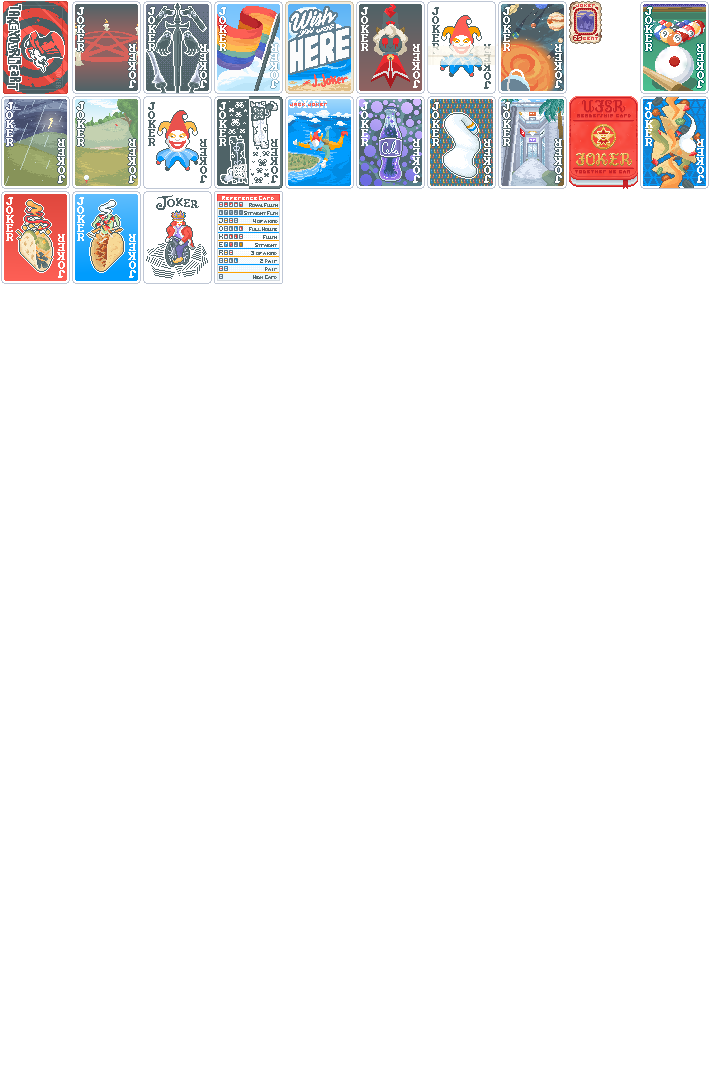
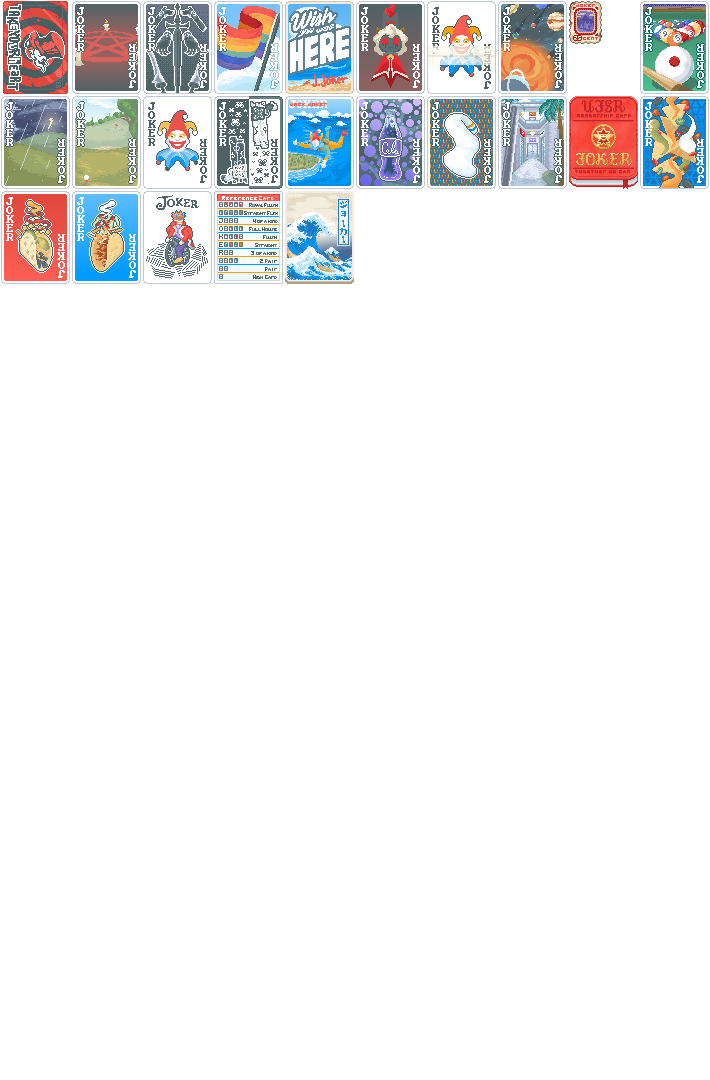
Implement Great Wave

Changed region(s): [[0.4028, 0.1528, 0.4958, 0.275]]

diff --git a/docs/addjokers.js b/docs/addjokers.js
@@ -176,6 +176,14 @@ let implementedJokers = [
     ],
     image_url: "img/j_reference_card.png",
     rarity: "Common"
+  },
+  {
+    name: "Great Wave",
+    text: [
+      "Retrigger {C:attention}rightmost{} played card used in scoring {C:attention}once{} for every {C:chips}hand{} remaining",
+    ],
+    image_url: "img/j_great_wave.png",
+    rarity: "Rare"
   }
 ]
 
